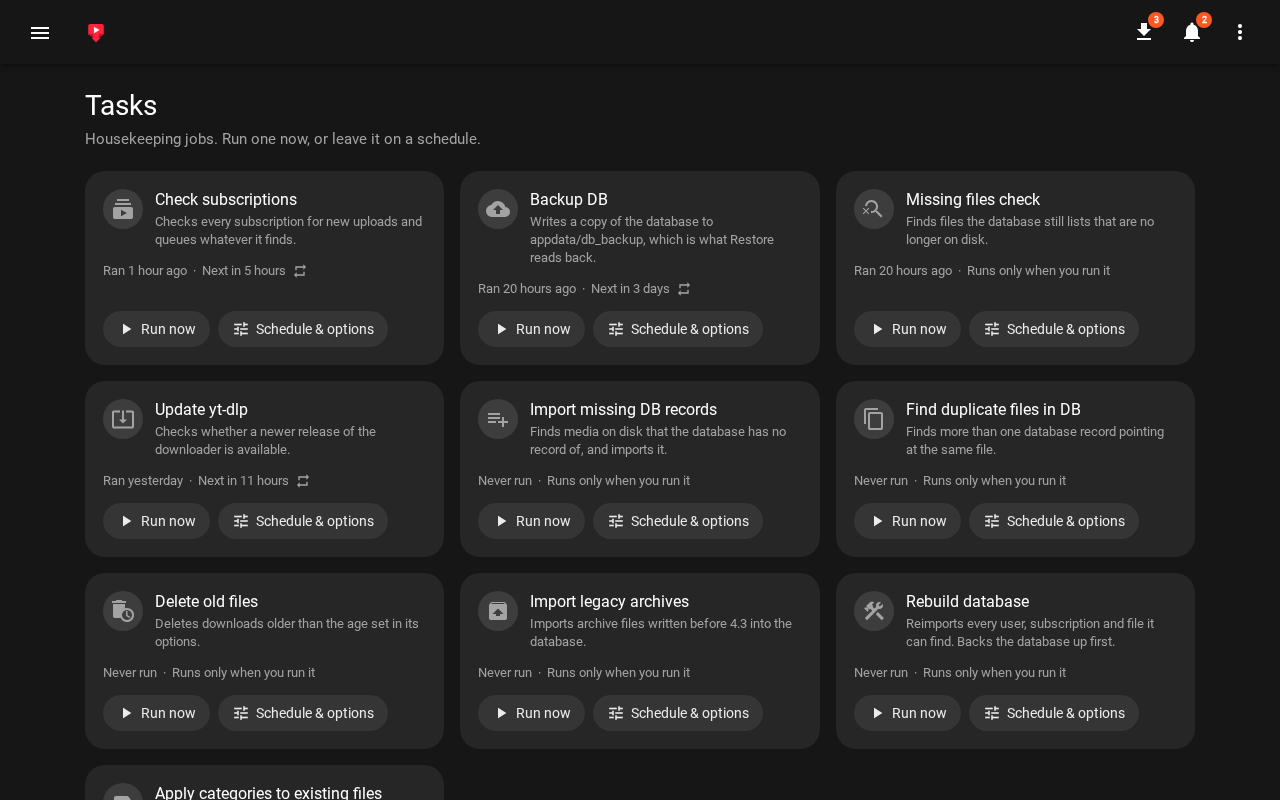
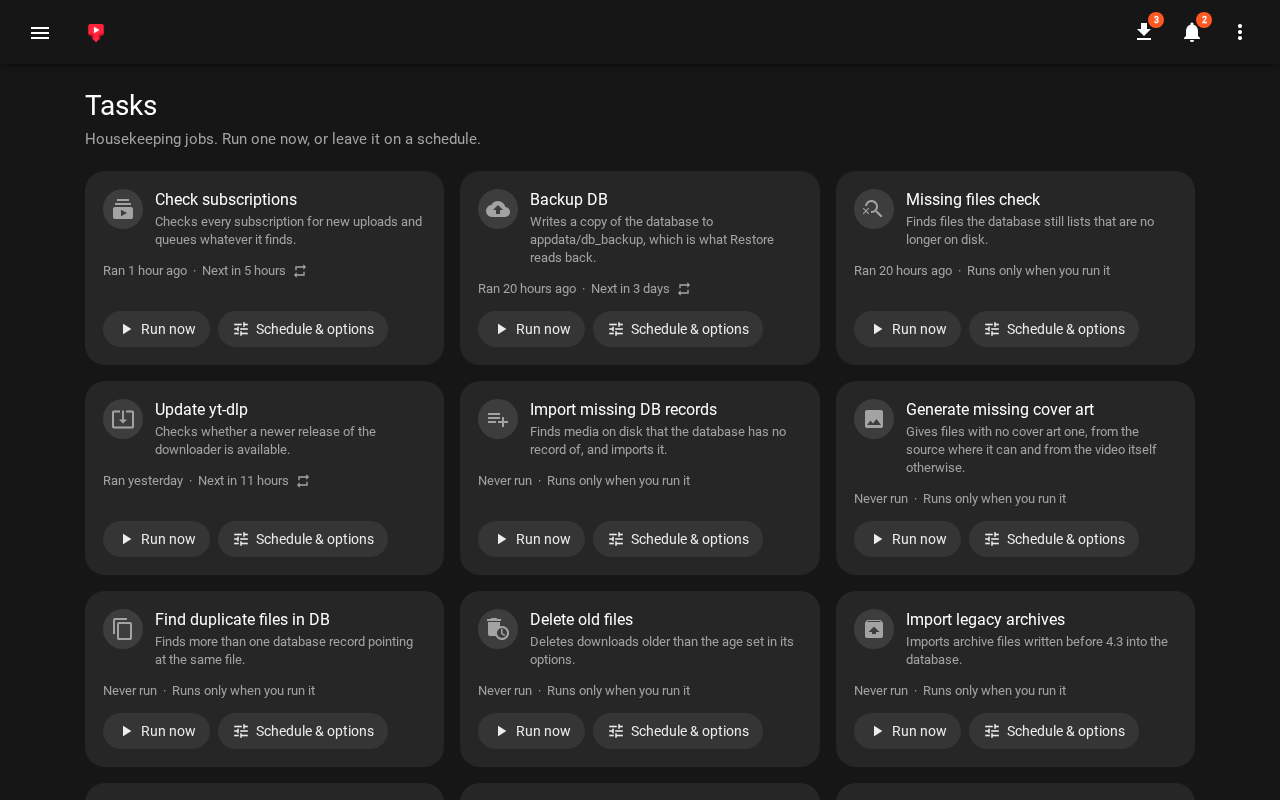
docs(gallery): refresh the player and tasks screenshots [skip ci]
The player shot shows the player's own controls, and the tasks shot the
Generate missing cover art task. The controls harness moves to port 17461,
since the gallery's is 17458.

diff --git a/DEVELOPMENT.md b/DEVELOPMENT.md
@@ -479,7 +479,7 @@ Chromium and Firefox against a library whose files really play:
 ```bash
 dev/screenshots/controls.sh               # build, boot, run, stop
 dev/screenshots/controls.sh --skip-build  # reuse the last frontend build
-dev/screenshots/controls.sh --keep        # leave the backend running on :17458 afterwards
+dev/screenshots/controls.sh --keep        # leave the backend running on :17461 afterwards
 ```
 
 It plays a minute-long clip cut into four chapters and checks the video has no native controls
